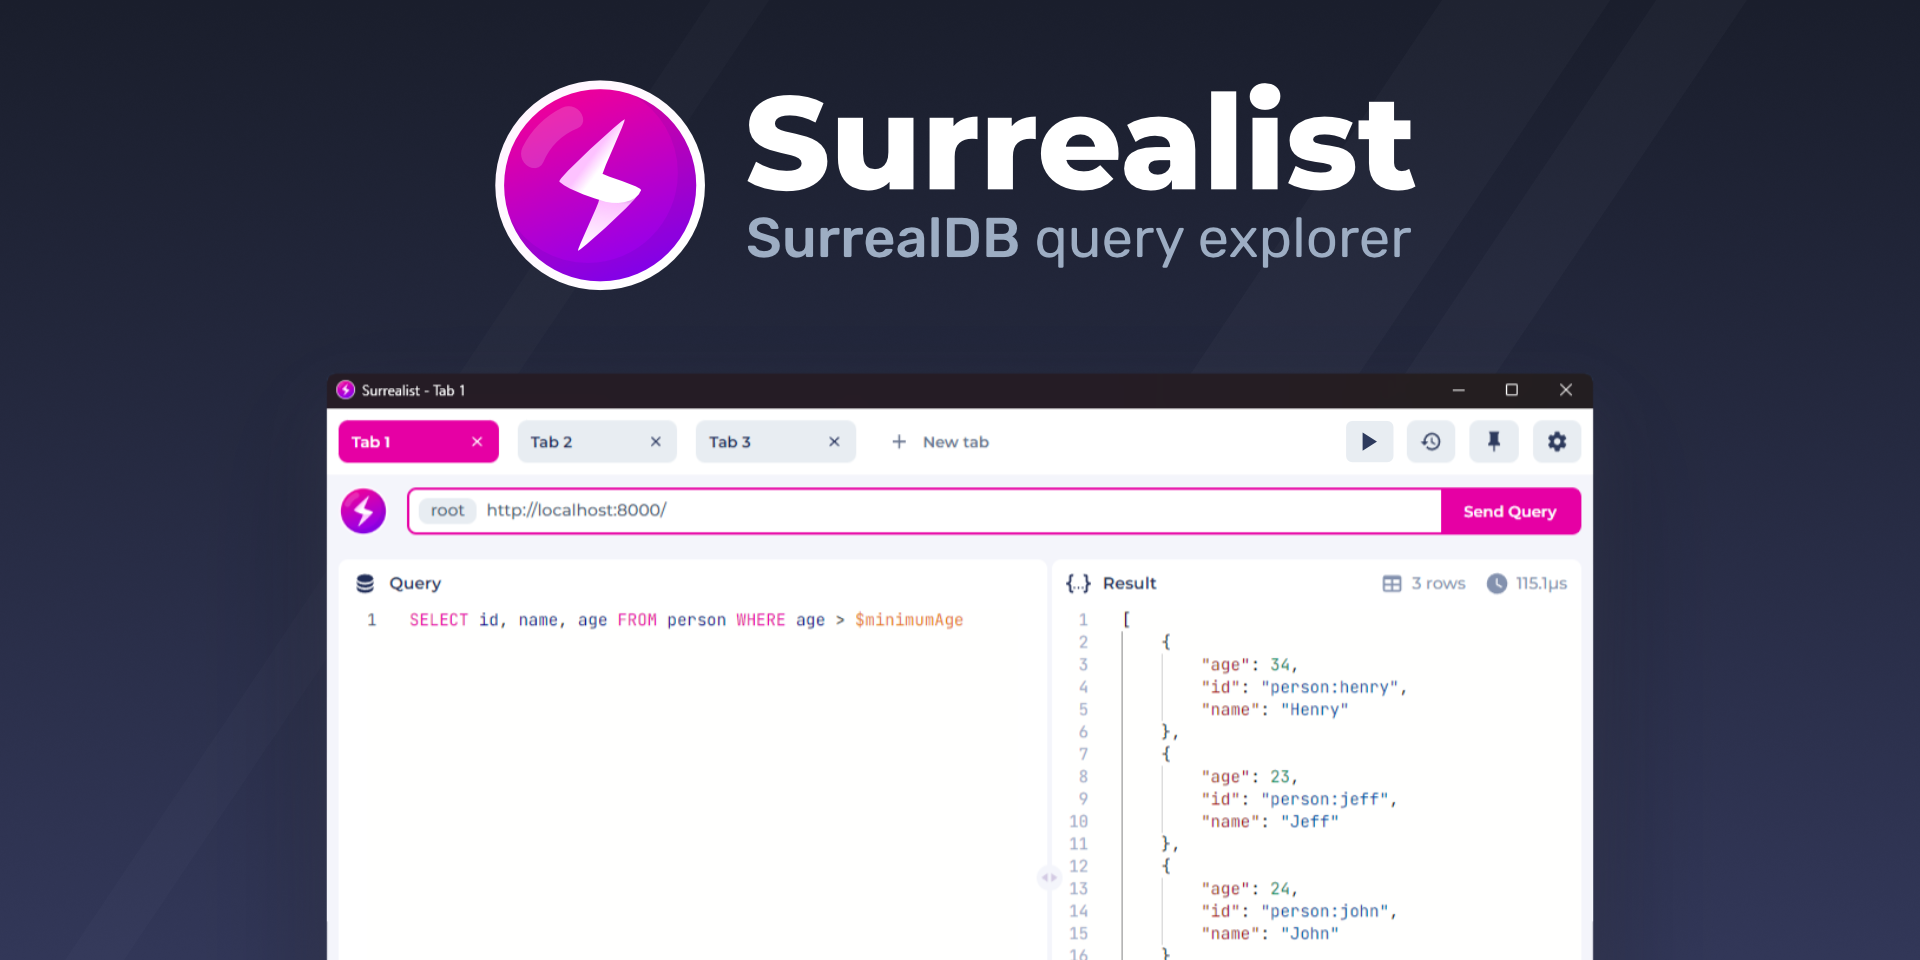
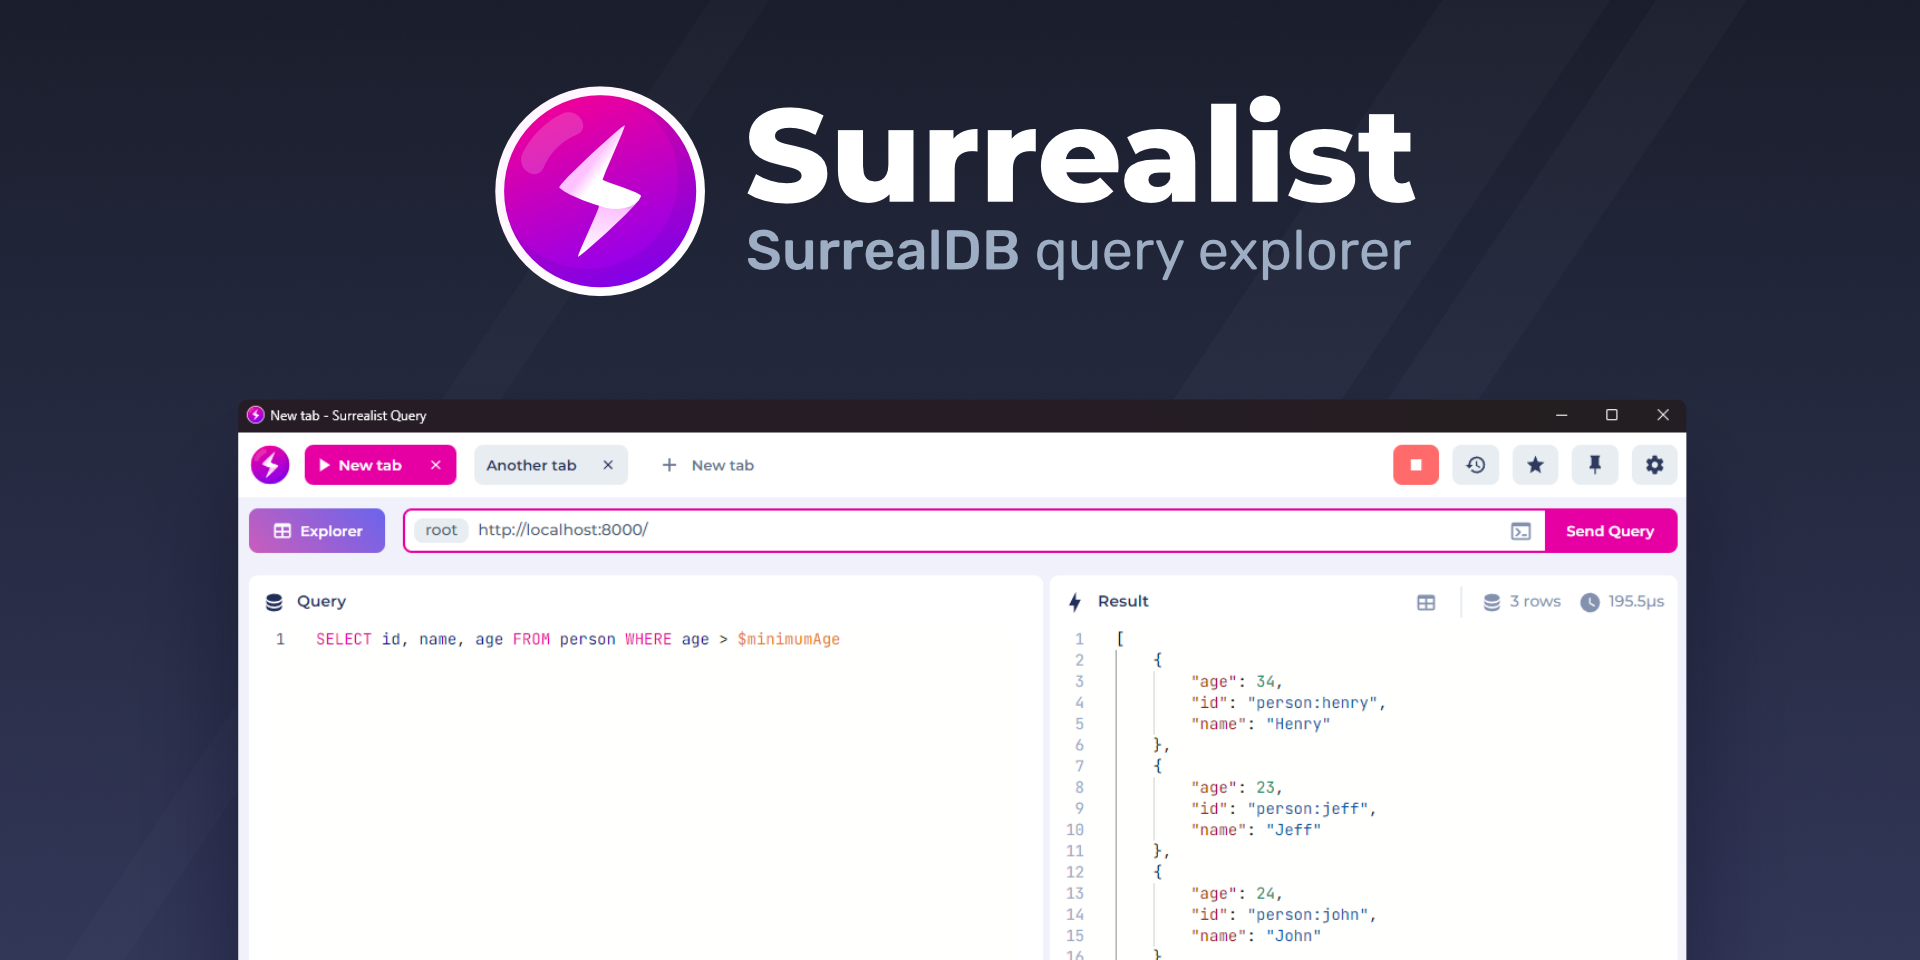
chore: update readme

diff --git a/README.md b/README.md
@@ -21,15 +21,15 @@
   <img src="https://img.shields.io/github/contributors/StarlaneStudios/surrealist">
 </p>
 
-Surrealist is a simple to use Desktop based query playground for [SurrealDB](https://surrealdb.com/). You can connect to any SurrealDB server and execute queries in a graphical interface, including table & variable auto completion, syntax highlighting, and much more.
+Surrealist is a simple to use Desktop based query playground and database explorer for [SurrealDB](https://surrealdb.com/). You can connect to any SurrealDB server and execute queries in a graphical interface, including table & variable auto completion, syntax highlighting, and much more. Switch to the explorer view to browse database tables, edit record contents, and traverse graph relationships.
 
 ## Features
 - 📌 Multi-tab query editing
 - ⚡ SurrealQL syntax highlighting
+- 🔍 Database explorer & record inspector
 - 📋 Automatic table name completion
 - 💫 Support for multiple queries in one request
 - ✏ Define variables in a seperate panel
-- 🔍 A clean and foldable view of your query results
 - 🔭 Start a local database directly from the application
 - 📜 Query history & Query favoriting
 
@@ -51,6 +51,18 @@ When running Surrealist on MacOS, as the application is not signed, you may be p
 - Run the command `sudo xattr -rd com.apple.quarantine Surrealist.app` (You may be prompted to enter your password)
 
 If these steps don't work, please open an issue ticket.
+
+## Query view
+Use the Query View to execute queries against your database. You can define variables in the Variables panel and use them in your queries, and browse the results in the Results panel.
+
+Executed queries are saved to the Query History or can be manually saved to the Favorites panel to quickly access previous queries.
+
+![Query View](.github/branding/query-view.png)
+
+## Explorer view
+The Explorer View is used to browse your database and inspect individual records. When you select a table in the left panel, the table contents will be displayed in the Record Explorer. You can click on a record id to open the Record Inspector, in which you can edit the record contents and traverse graph relationships.
+
+![Explorer View](.github/branding/explorer-view.png)
 
 ## Contributing
 We welcome any issues and PRs submitted to Surrealist. Since we currently work on multiple other projects and our time is limited, we value any community help in supporting a rich future for Surrealist.
